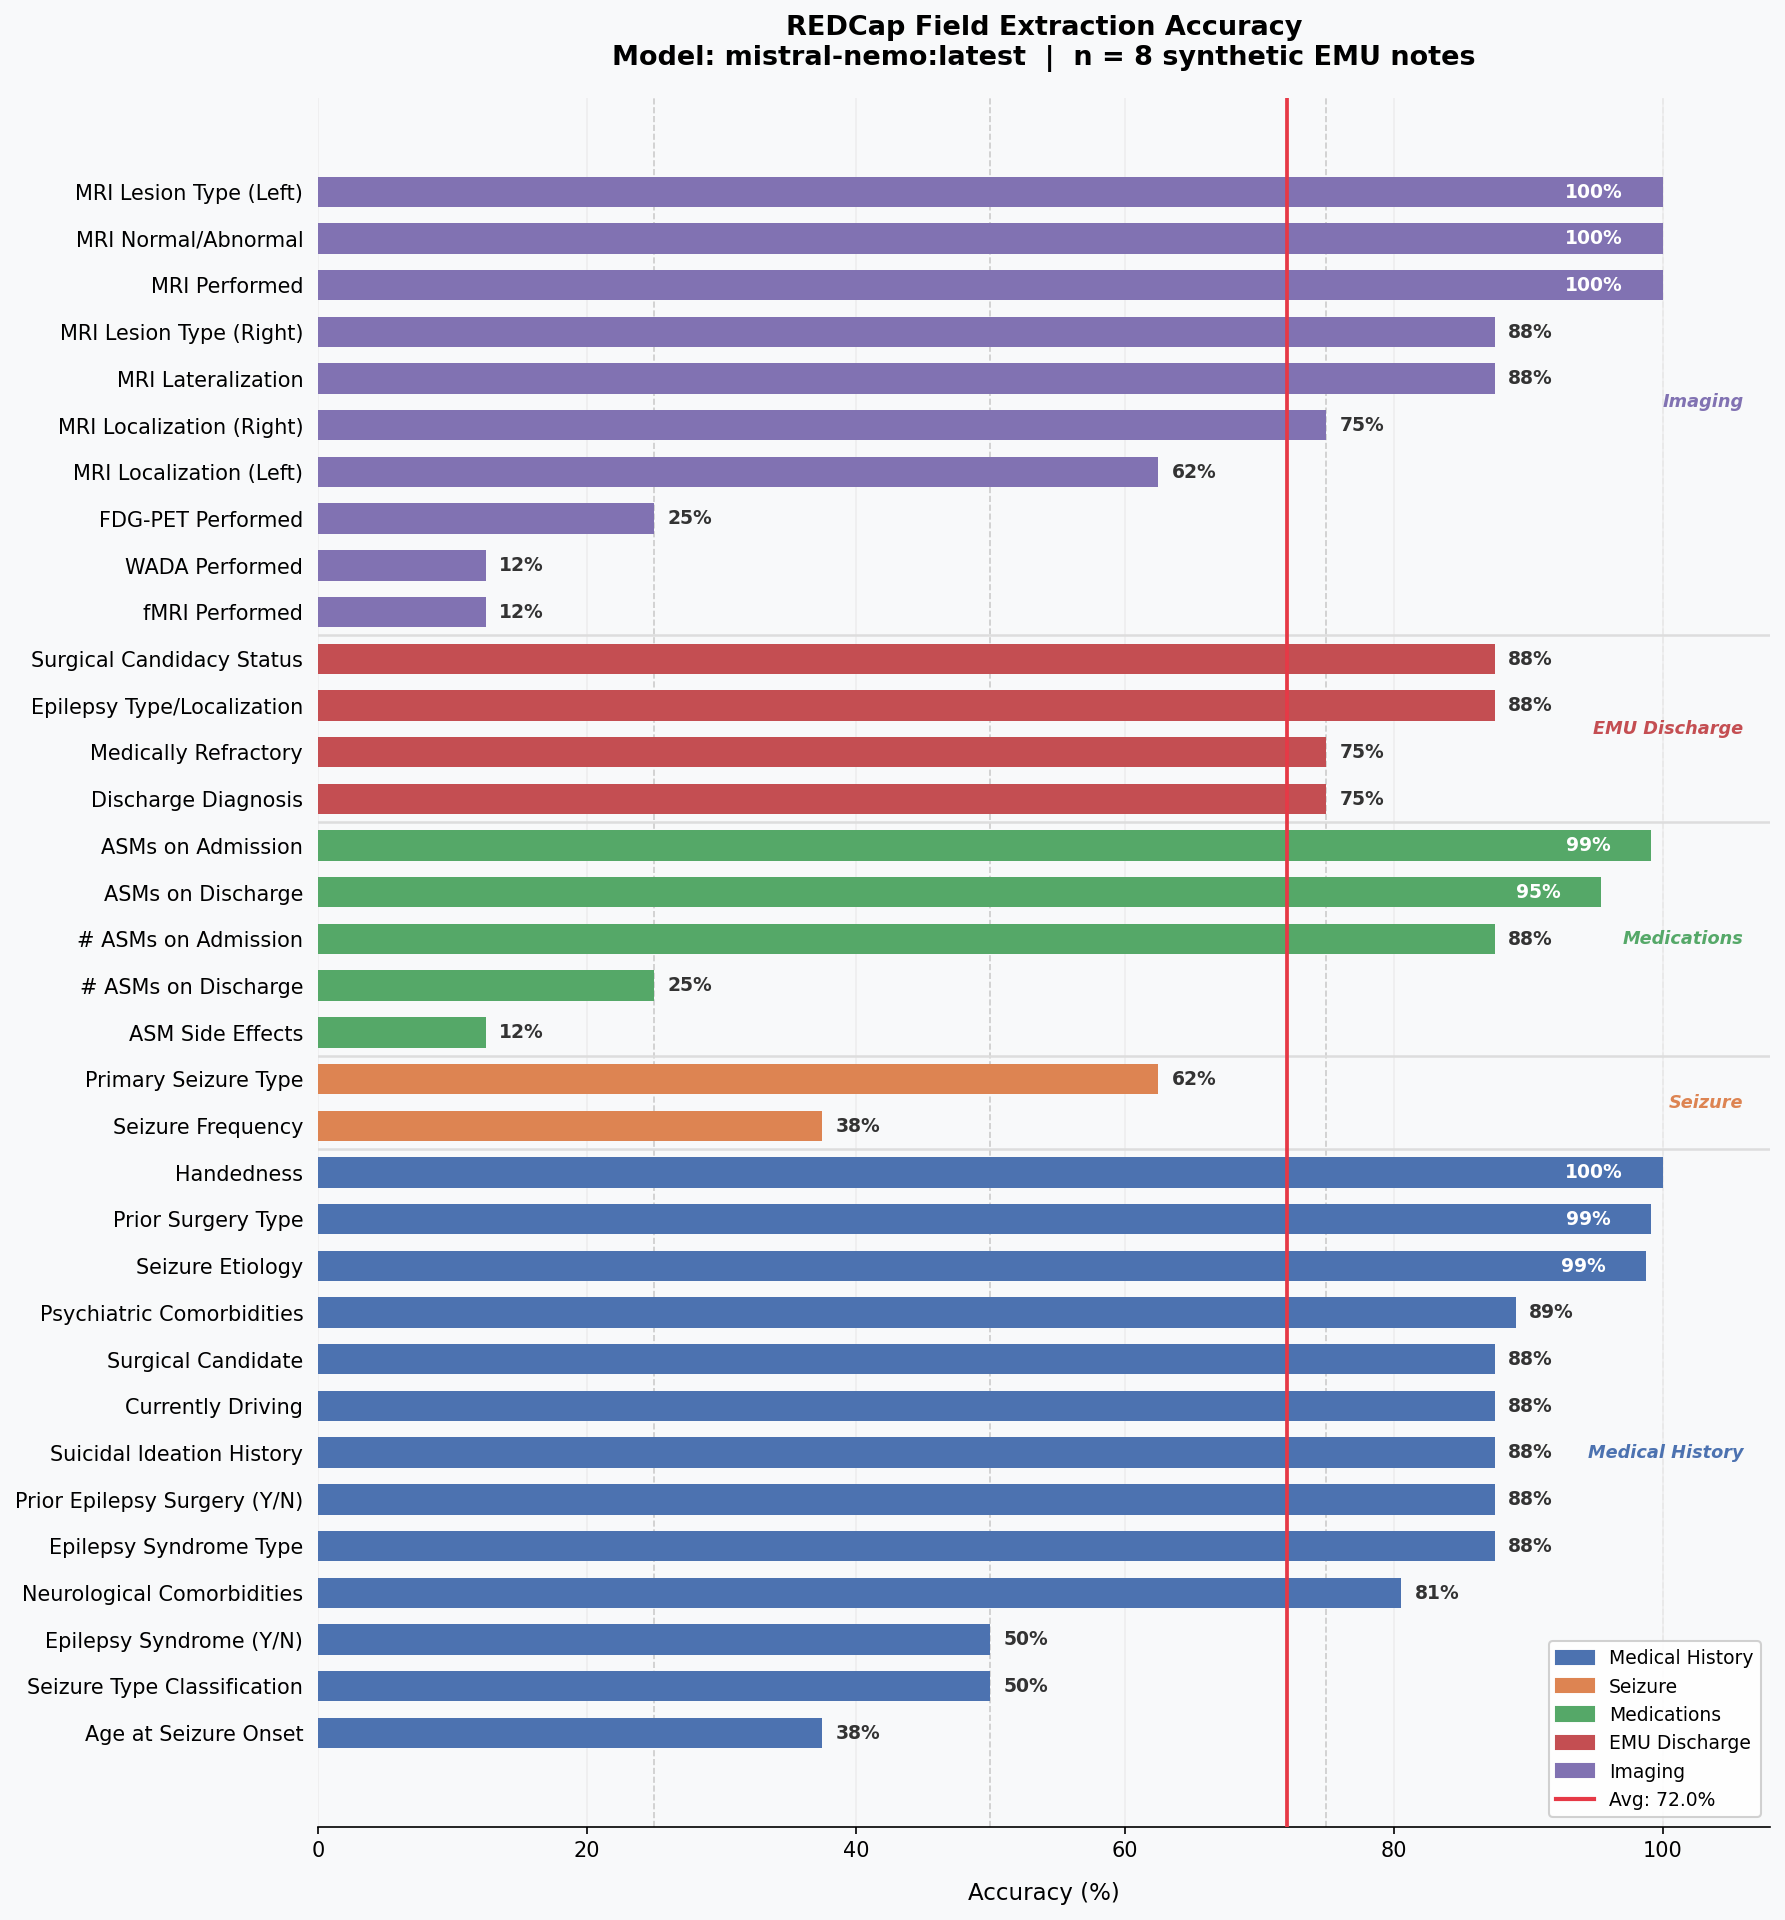
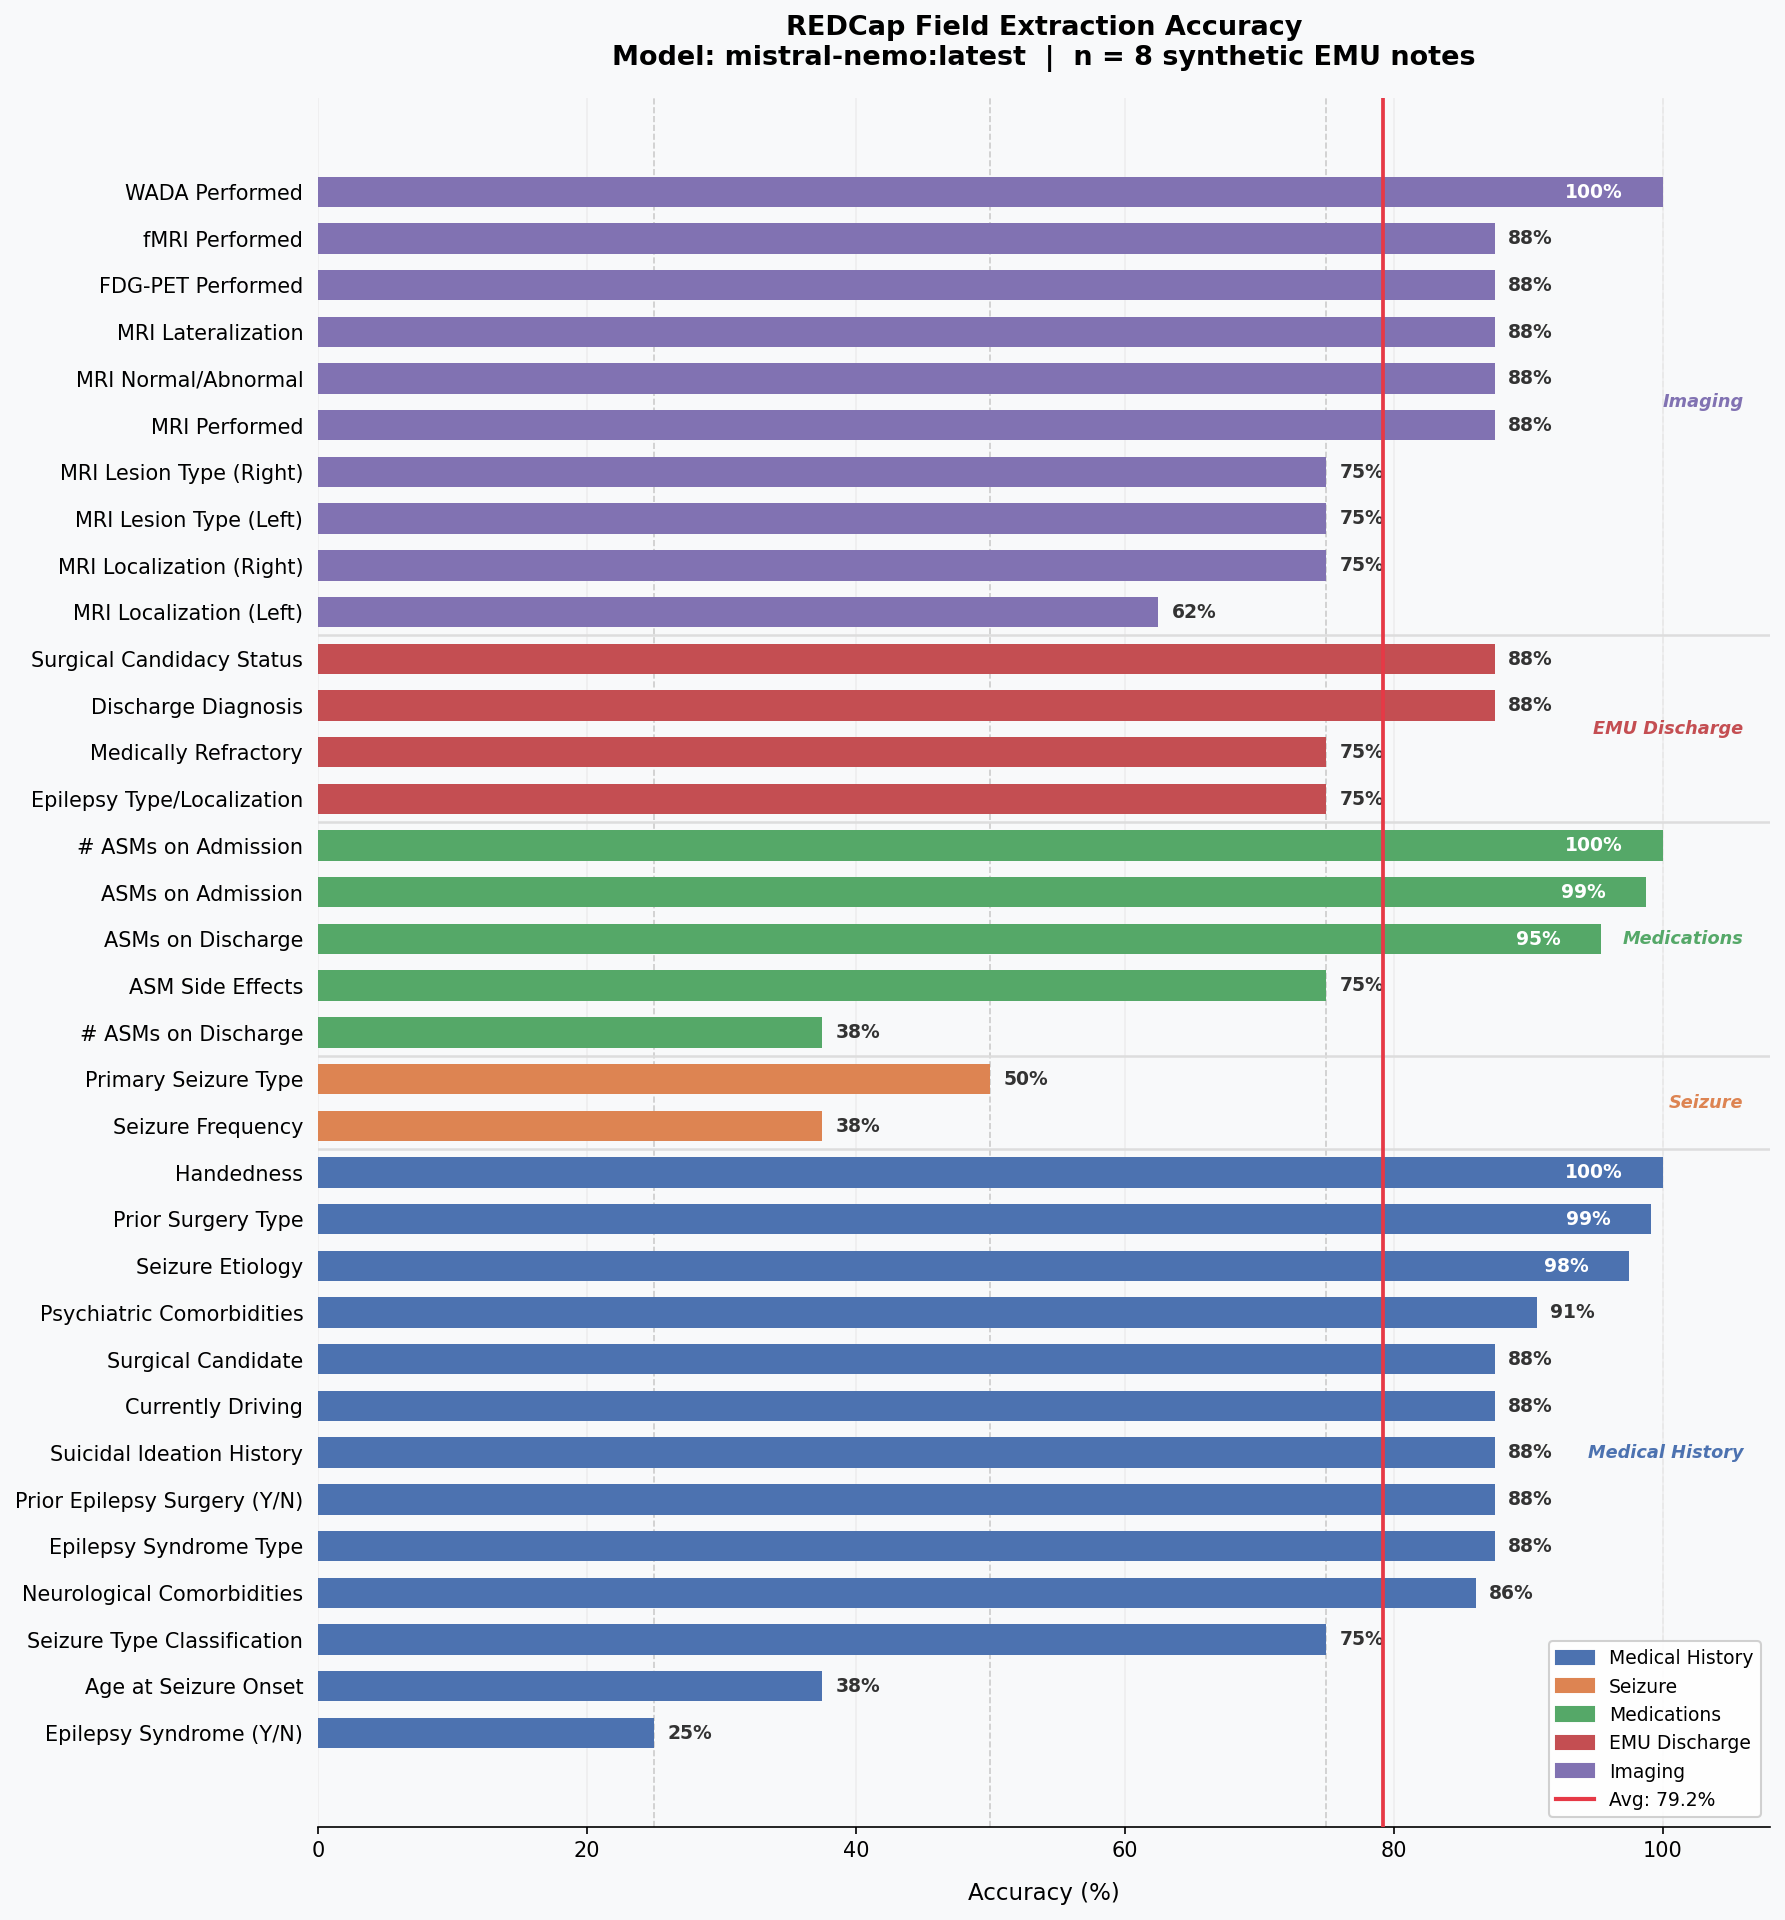
Improve REDCap extraction accuracy: 72% → 79.2%
- Add FIELD_DEFAULTS post-processing: pet_yn, fmri_yn, wada_yn default
  to '0' (not performed) and emu_asm_sfx defaults to '3' (no side effects)
  when model returns null — clinically justified for EMU discharge notes
- Expand medhx_neurohx instruction to prevent hallucinating comorbidities
  from seizure etiology (e.g. post-stroke epilepsy ≠ stroke comorbidity)
- Add medhx_etio disambiguation with explicit examples per code
- Expand sz_age phrase hints for seizure onset age extraction
- Add emu_sz_type1_freq frequency anchors with explicit code mappings
- Expand emu_asmdc_number instruction to target discharge med section

diff --git a/src/extract_redcap_fields.py b/src/extract_redcap_fields.py
@@ -461,20 +461,50 @@ GROUP_FIELDS: Dict[str, List[str]] = {
 GROUP_INSTRUCTIONS: Dict[str, str] = {
     "medical_history": (
         "IMPORTANT: sz_age is the patient's AGE AT FIRST SEIZURE ONSET, "
-        "NOT their current age. Look for phrases like 'seizures began at age X' "
-        "or 'first seizure at age X'. Do not use the patient's current age."
+        "NOT their current age. Look for phrases like 'seizures began at age X', "
+        "'first seizure at age X', 'epilepsy onset at age X', 'since age X', "
+        "'onset at X years old', 'initial seizure at X'. Do not use the patient's current age.\n"
+        "IMPORTANT for medhx_neurohx: Only check a neurological comorbidity if it is explicitly "
+        "listed as a separate current neurological diagnosis. Do NOT check 'ischemic stroke' (code 1) "
+        "simply because the patient has post-stroke epilepsy — the stroke is the seizure etiology, "
+        "not a separate current comorbidity. Do NOT check 'headaches/migraine' (code 5) unless "
+        "migraine is explicitly listed as a separate diagnosis. If no neurological comorbidities "
+        "are listed beyond epilepsy itself, select code 0 (None).\n"
+        "IMPORTANT for medhx_etio: "
+        "Code 0 = Generalized epilepsy (e.g., JME, absence epilepsy, generalized tonic-clonic). "
+        "Code 1 = Focal epilepsy (e.g., temporal lobe epilepsy, frontal lobe epilepsy, MTS, post-stroke focal). "
+        "Code 2 = Both focal AND generalized features present. "
+        "Code 3 = PNEE/FND only (psychogenic non-epileptic events, functional neurological disorder — no epilepsy). "
+        "Code 4 = Physiological non-epileptic events (syncope, parasomnias). "
+        "Code 5 = Mixed FND + epilepsy (patient has both PNEE and confirmed epileptic seizures). "
+        "Autoimmune epilepsy is focal (code 1). Dravet syndrome is generalized (code 0)."
     ),
     "seizure": (
         "IMPORTANT: emu_sz_type refers to the MOST FREQUENT seizure type at the time of "
         "EMU admission. If multiple types are described, choose the one reported as most frequent. "
         "Do not default to code 1 (primary generalized tonic-clonic) unless the note explicitly "
-        "states the seizures are generalized."
+        "states the seizures are generalized.\n"
+        "IMPORTANT for emu_sz_type1_freq — use these exact mappings: "
+        "1=multiple per day (several times daily, 2-3x/day), "
+        "2=daily (once a day, every day), "
+        "3=multiple per week (2-3x/week, several times weekly), "
+        "4=weekly (once a week, every week), "
+        "5=multiple per month (2-3x/month, several times monthly), "
+        "6=monthly (once a month, every month), "
+        "7=multiple per year (every few months, 3-4x/year), "
+        "8=yearly or less frequent (once a year, rare). "
+        "If the patient has FND/PNEE only with no epileptic seizures, return null for this field."
     ),
     "asms": (
         "IMPORTANT: Count only regularly SCHEDULED anti-seizure medications. "
         "Do NOT count rescue or PRN medications (e.g., diazepam rectal, lorazepam PRN, "
         "intranasal midazolam) in emu_asm_number or emu_asm_type. "
-        "Apply the same rule for discharge ASMs (emu_asmdc_number, emu_asmdc_type)."
+        "Apply the same rule for discharge ASMs (emu_asmdc_number, emu_asmdc_type).\n"
+        "IMPORTANT for emu_asmdc_number and emu_asmdc_type: These refer to medications at DISCHARGE, "
+        "not admission. Look for a discharge medications section, phrases like 'discharged on', "
+        "'discharge medications include', 'at time of discharge', or 'sent home on'. "
+        "The discharge list may differ from admission — do not copy the admission list. "
+        "If the patient was discharged on zero ASMs, return '0' for emu_asmdc_number."
     ),
     "discharge": (
         "IMPORTANT for emu_sxcandidate: code 4 = not currently a surgical candidate but "
@@ -689,6 +719,17 @@ def _normalize_checkbox_item(value, choices: Dict[str, str]) -> Optional[str]:
     return _label_to_code(val_str, choices)
 
 
+# Fields where null model output should fall back to a clinically safe default.
+# Justified: EMU discharge summaries always document these if performed/ordered.
+# Absence of mention = "No".
+FIELD_DEFAULTS: Dict[str, str] = {
+    "pet_yn": "0",      # FDG-PET: not mentioned → No
+    "fmri_yn": "0",     # fMRI: not mentioned → No
+    "wada_yn": "0",     # WADA: not mentioned → No
+    "emu_asm_sfx": "3", # ASM side effects: not mentioned → No side effects
+}
+
+
 def normalize_fields(raw_fields: Dict) -> Dict:
     """Normalize model output: map text labels to codes, unwrap complex objects."""
     out = {}
@@ -730,6 +771,11 @@ def normalize_fields(raw_fields: Dict) -> Dict:
                 out[var] = None
             else:
                 out[var] = str(value).strip()
+
+    # Apply clinically justified defaults for fields where null = "No/None"
+    for var, default_code in FIELD_DEFAULTS.items():
+        if out.get(var) is None or out.get(var) == "":
+            out[var] = default_code
 
     return out
 
